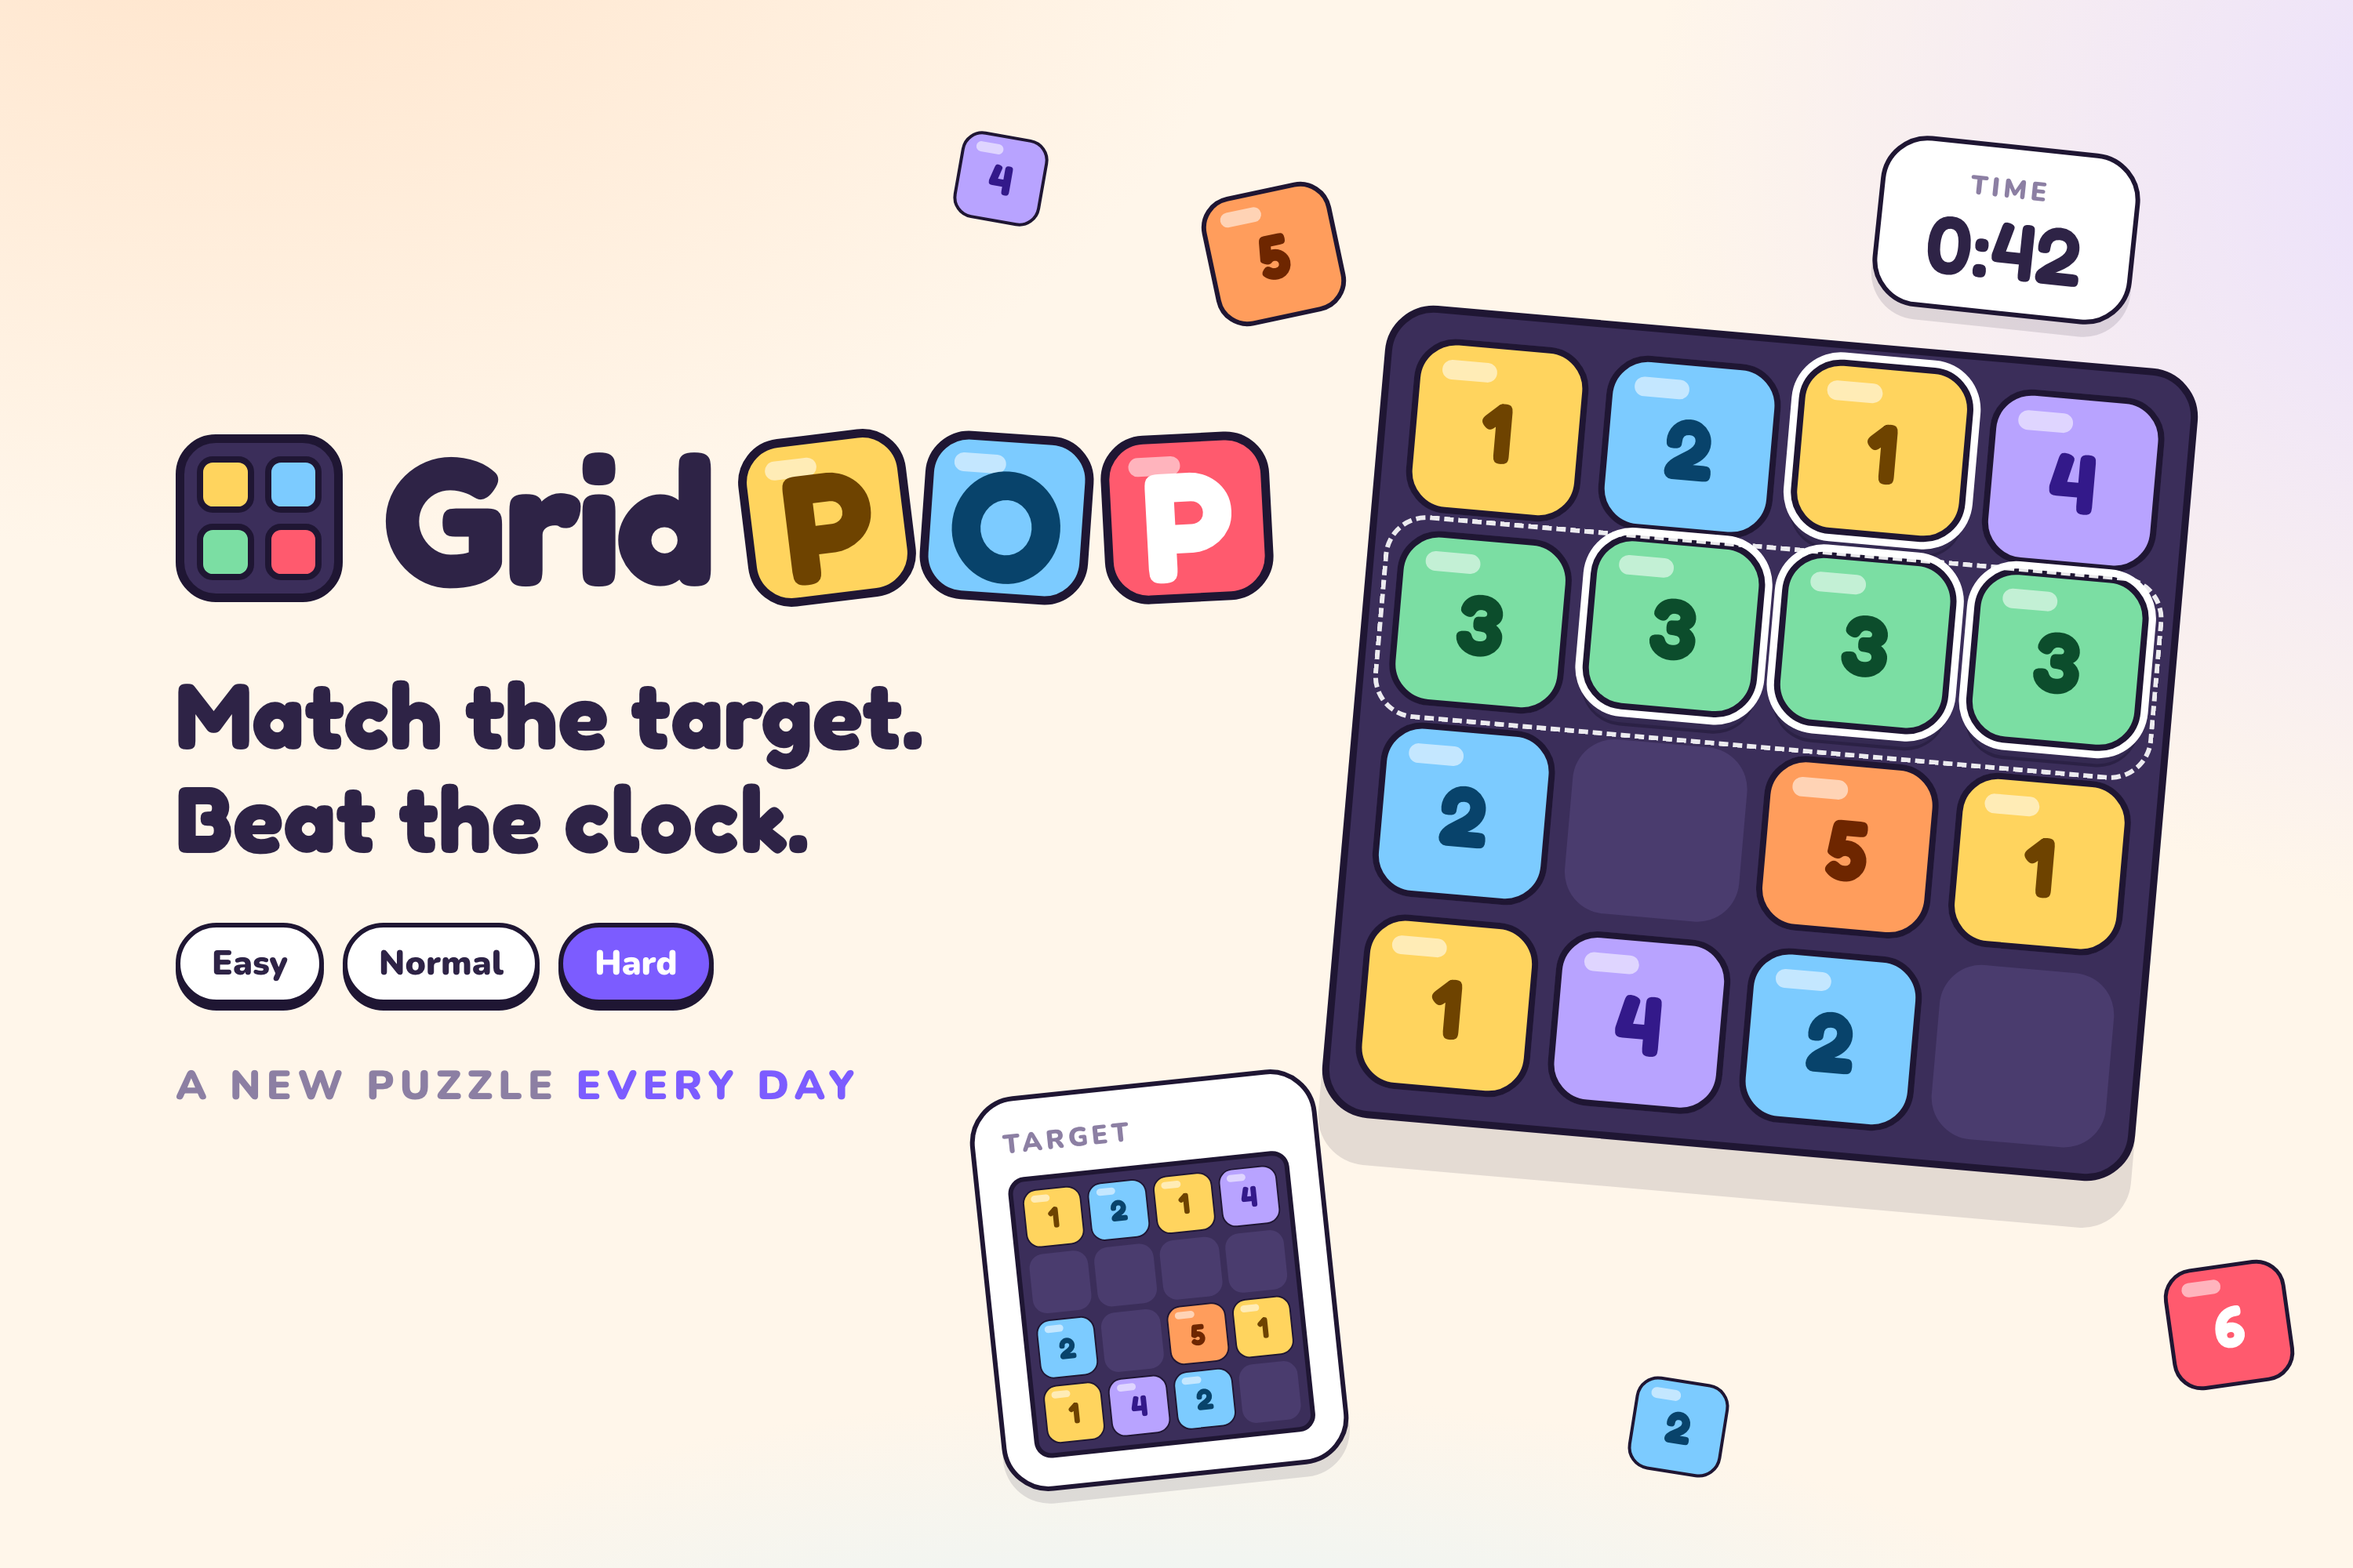
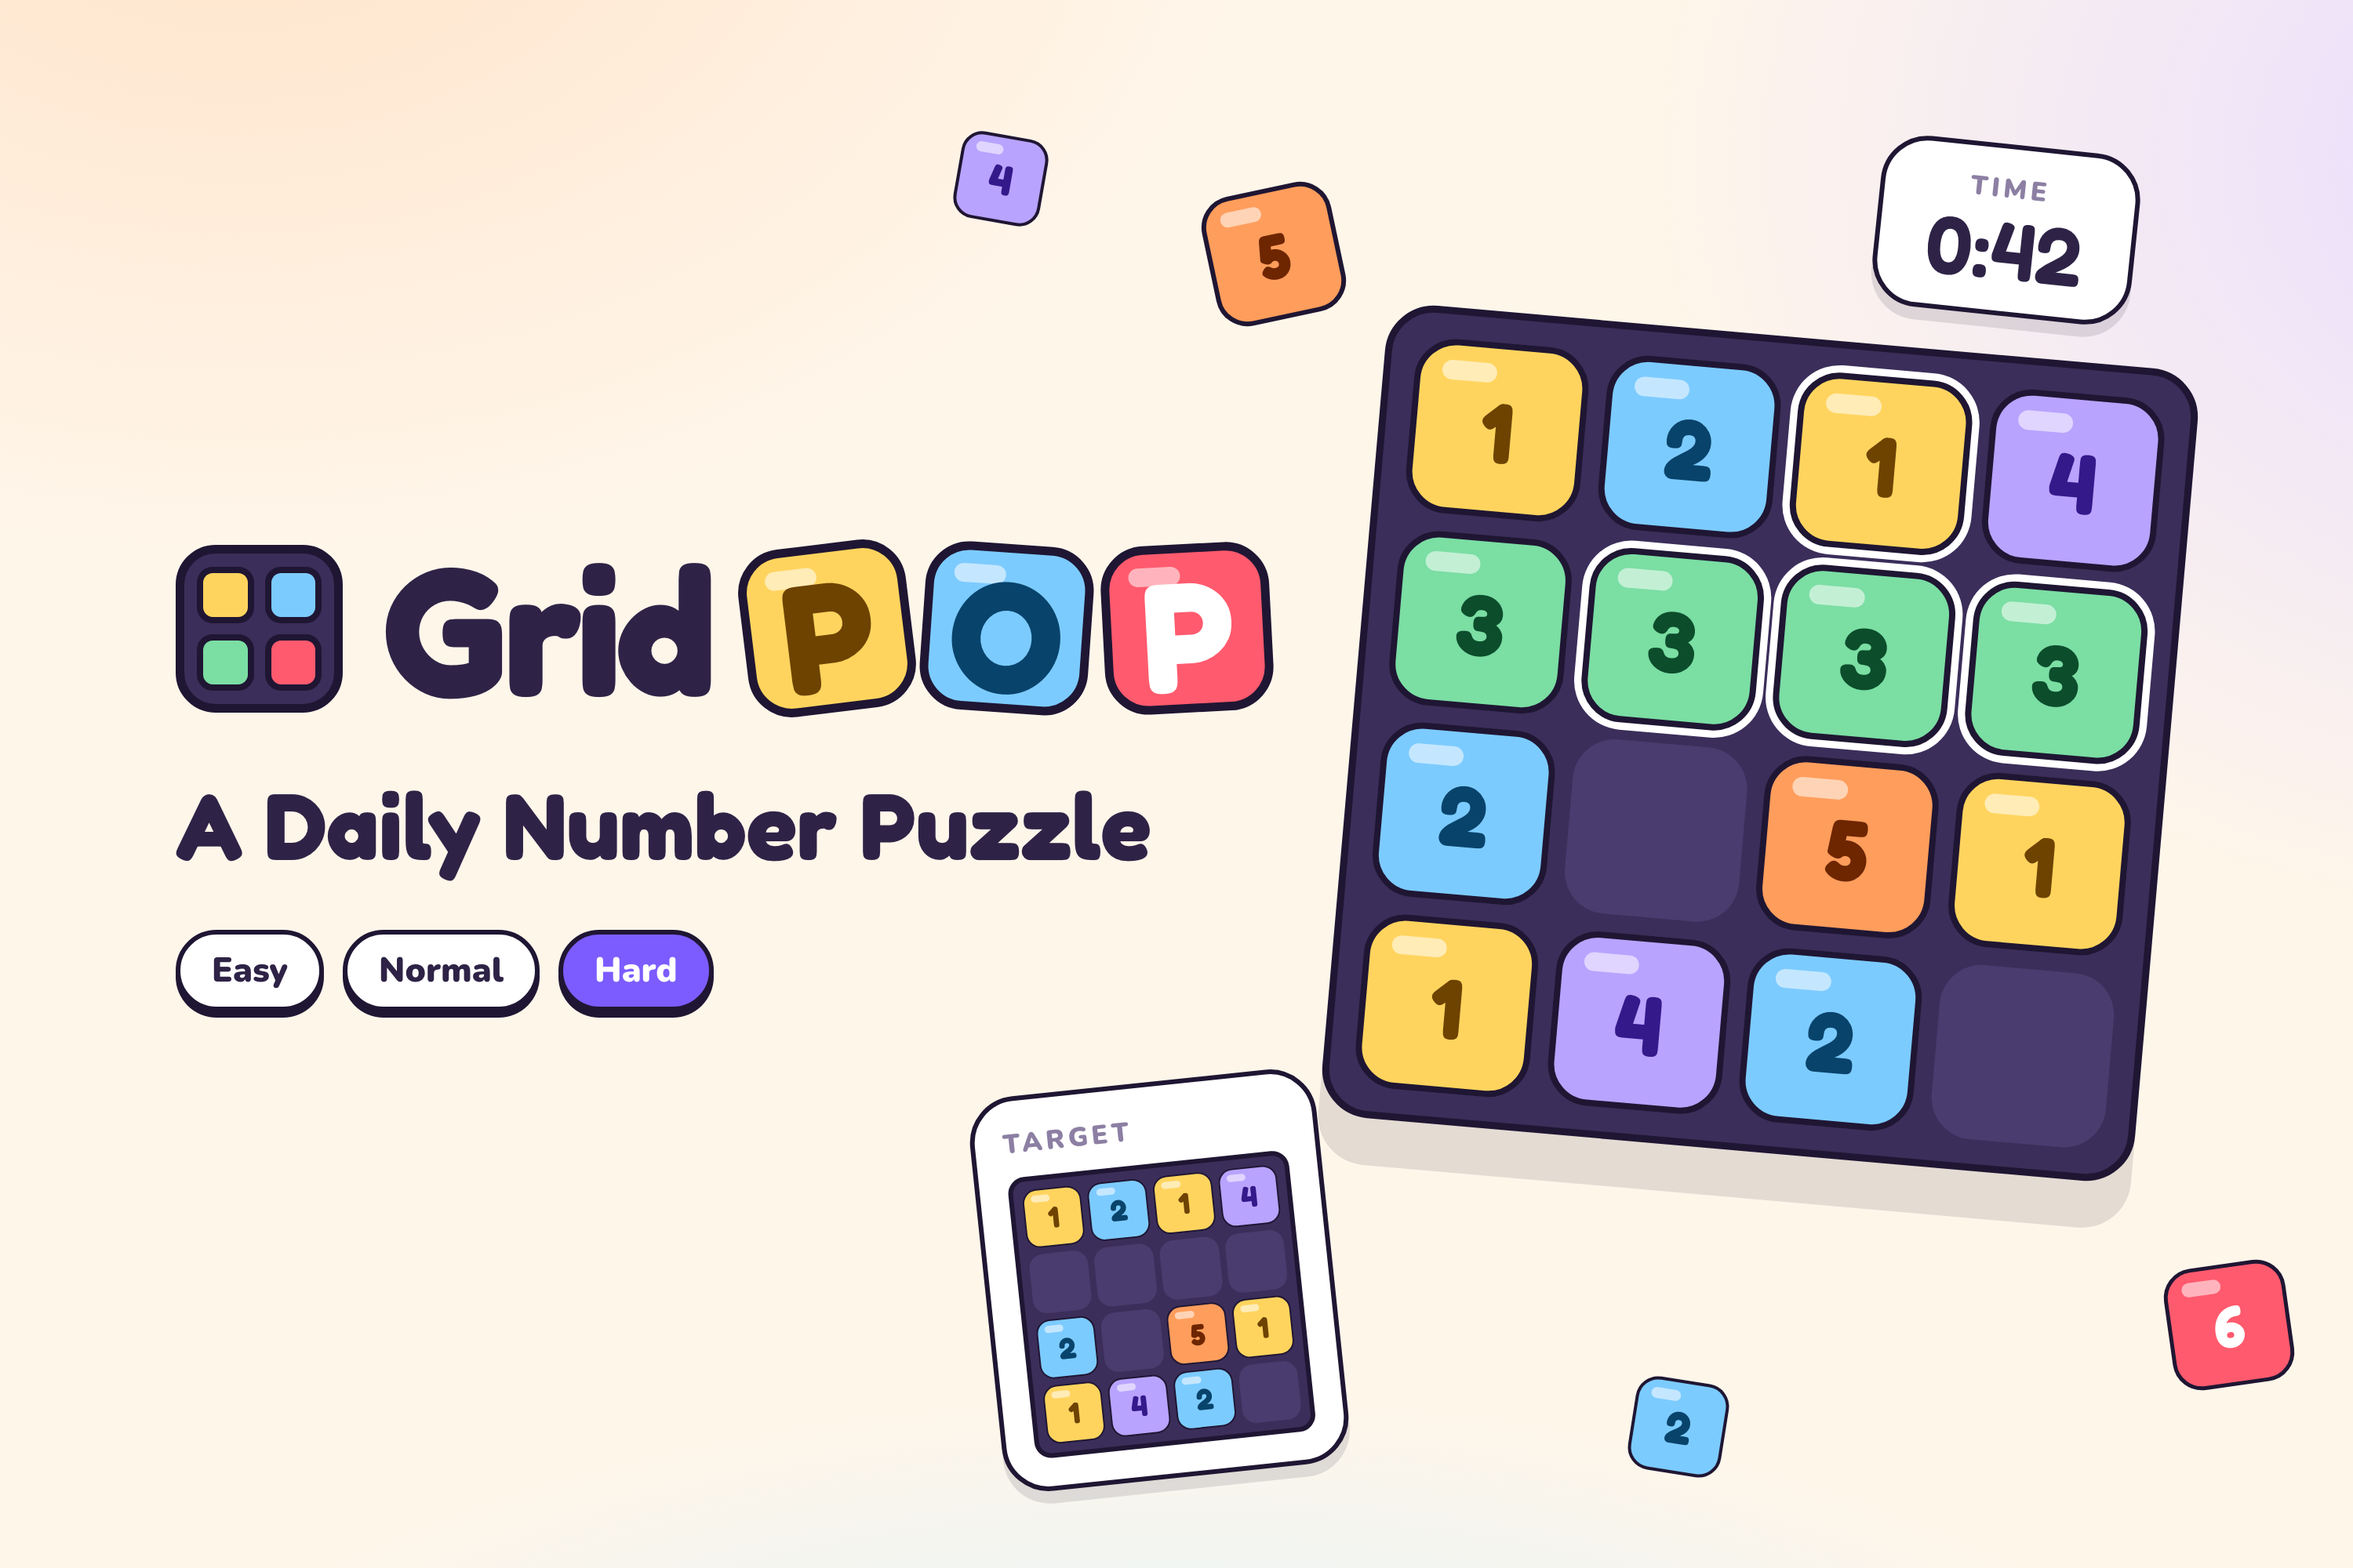
Hackathon image: "A Daily Number Puzzle", piece sits flat, no dotted outline

diff --git a/marketing/src/hackathon.html b/marketing/src/hackathon.html
@@ -32,15 +32,6 @@
     line-height: 1.1;
     color: var(--gp-ink);
   }
-  .tagline {
-    font-family: "Nunito", sans-serif;
-    font-weight: 900;
-    font-size: 26px;
-    letter-spacing: 0.14em;
-    text-transform: uppercase;
-    color: var(--gp-muted);
-  }
-  .tagline em { font-style: normal; color: var(--gp-accent); }
   .levels { display: flex; gap: 12px; }
   .chip {
     font-family: "Nunito", sans-serif;
@@ -56,12 +47,8 @@
   .chip.on { background: var(--gp-accent); color: #fff; }
 
   .board-main { --w: 520px; left: 862px; top: 214px; transform: rotate(5deg); box-shadow: 0 30px 0 rgba(31, 22, 51, 0.12); }
-  /* The piece in play: ringed white and lifted, about to land and finish the row of 3s. */
-  .board .tile.live {
-    box-shadow: 0 0 0 calc(var(--w) * 0.009) #fff, 0 calc(var(--w) * 0.02) 0 rgba(15, 8, 32, 0.35);
-    transform: translateY(calc(var(--w) * -0.016));
-    z-index: 2;
-  }
+  /* The piece in play, ringed white like in the game, about to finish the row of 3s. */
+  .board .tile.live { box-shadow: 0 0 0 calc(var(--w) * 0.009) #fff; z-index: 2; }
 
   .card {
     background: #fff;
@@ -99,9 +86,8 @@
       <span class="logo-word">Grid</span>
       <span class="logo-pop"><span class="logo-tile lp1"><b>P</b></span><span class="logo-tile lp2"><b>O</b></span><span class="logo-tile lp3"><b>P</b></span></span>
     </div>
-    <div class="headline">Match the target.<br>Beat the clock.</div>
+    <div class="headline">A Daily Number Puzzle</div>
     <div class="levels"><span class="chip">Easy</span><span class="chip">Normal</span><span class="chip on">Hard</span></div>
-    <div class="tagline">A new puzzle <em>every day</em></div>
   </div>
 
   <div class="abs card clock-card">
@@ -130,7 +116,6 @@
     <div class="socket"><div class="tile v2"><span>2</span></div></div>
     <div class="socket"></div>
 
-    <div class="will-clear" style="grid-area: 2 / 1 / 3 / 5; inset: -8px"></div>
   </div>
 
   <div class="abs card target-card">
